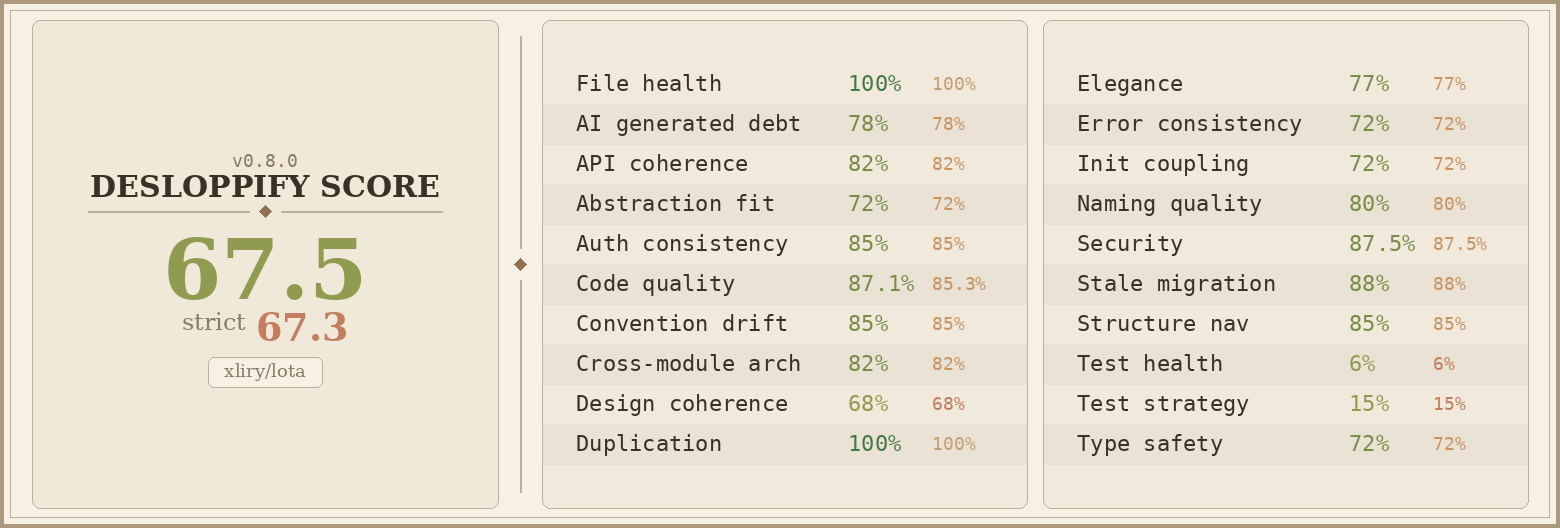
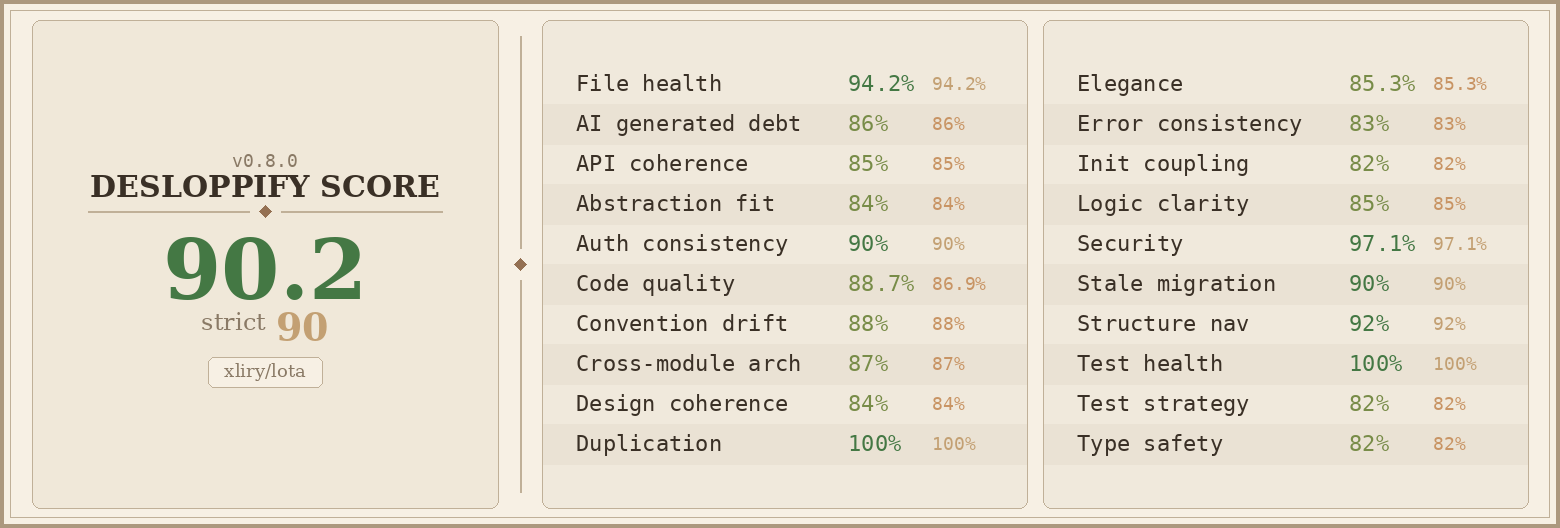
docs: add desloppify scorecard to README

diff --git a/README.md b/README.md
@@ -1,5 +1,7 @@
 # Lota Agent
 
+<img src="scorecard.png" width="100%">
+
 Lota is an autonomous agent that picks up tasks from GitHub Issues, plans them, and executes them — all without you having to babysit it.
 
 Think of it like a developer on your team who checks their inbox every 15 seconds, plans the work, waits for your sign-off, then gets it done.
